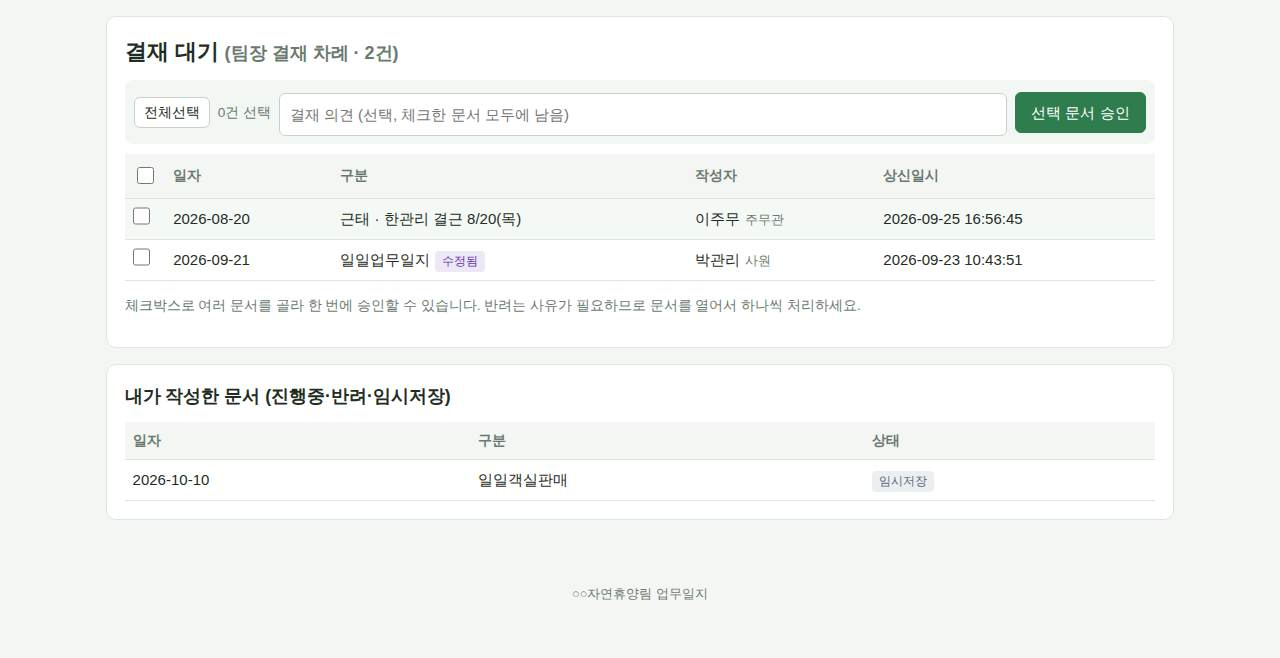
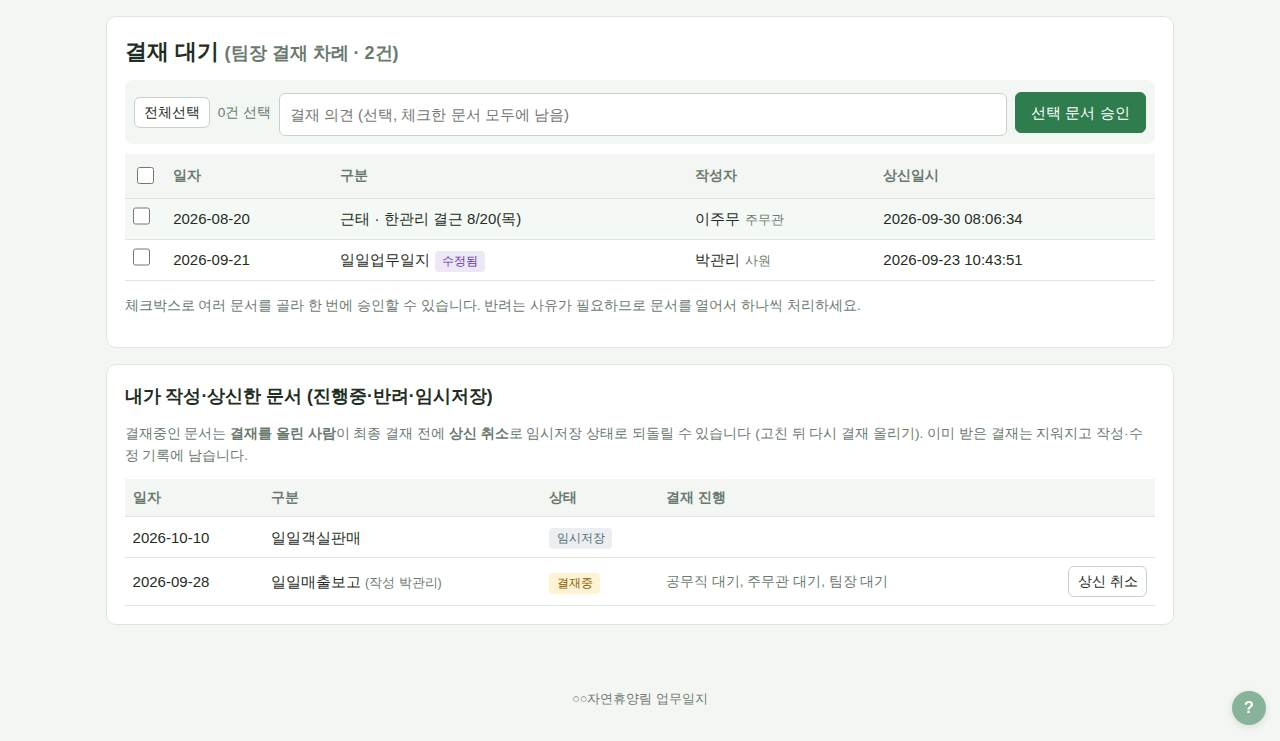
결재 상신 취소: 올린 사람이 결재중 문서를 임시저장으로 (DB v51)
- journals.submitted_by 기록, can_recall()/journal_recall()
- 결재함 '내가 작성·상신한 문서'에 상신 취소 버튼·결재 진행, 문서 보기에도 버튼
- 도움말·README·업데이트 내역

Claude-Session: https://claude.ai/code/session_01Lr6yxKyasrSL9QLfMX5TX8

diff --git a/approvals.php b/approvals.php
@@ -8,6 +8,17 @@ $user = require_login();
 if (is_post()) {
     csrf_verify();
     $action = post('action');
+    // 결재 상신 취소: 내가 올린 결재중 문서를 임시저장으로
+    if ($action === 'recall') {
+        $j = journal_find((int) post('id'));
+        if (!$j || !can_recall($j, $user)) {
+            flash('상신 취소할 수 없는 문서입니다 (결재를 올린 사람만, 결재가 끝나기 전에만 취소할 수 있습니다).', 'error');
+        } else {
+            journal_recall($j, $user);
+            flash(journal_type_label($j) . ' ' . $j['work_date'] . ' 결재 상신을 취소했습니다. 임시저장 상태로 돌아갔습니다.', 'success');
+        }
+        redirect(post('back') === 'view' && $j ? 'view.php?id=' . (int) $j['id'] : 'approvals.php');
+    }
     $ids = array_unique(array_map('intval', (array) ($_POST['ids'] ?? [])));
     if (!in_array($action, ['approve', 'delegate'], true) || !$ids) {
         flash('결재할 문서를 체크하세요.', 'error');
@@ -42,12 +53,14 @@ foreach ($waiting as $j) {
     if (can_delegate($user, approvable_step($j, $user))) $delegatable[(int) $j['id']] = true;
 }
 
+// 내가 작성했거나 내가 결재를 올린 문서 (진행중·반려·임시저장)
 $st = db()->prepare(
-    "SELECT j.* FROM journals j
-      WHERE j.author_id = ? AND j.status IN ('draft', 'pending', 'rejected')
+    "SELECT j.*, u.name AS author_name FROM journals j JOIN users u ON u.id = j.author_id
+      WHERE (j.author_id = ? AND j.status IN ('draft', 'pending', 'rejected'))
+         OR (j.status = 'pending' AND COALESCE(j.submitted_by, j.author_id) = ?)
       ORDER BY j.work_date DESC, j.id DESC LIMIT 50"
 );
-$st->execute([$user['id']]);
+$st->execute([$user['id'], $user['id']]);
 $mine = $st->fetchAll();
 
 layout_header('결재함', 'approval');
@@ -114,18 +127,28 @@ layout_header('결재함', 'approval');
 </script>
 
 <section class="card">
-  <h2>내가 작성한 문서 (진행중·반려·임시저장)</h2>
+  <h2>내가 작성·상신한 문서 (진행중·반려·임시저장)</h2>
+  <p class="muted small no-print">결재중인 문서는 <b>결재를 올린 사람</b>이 최종 결재 전에 <b>상신 취소</b>로 임시저장 상태로 되돌릴 수 있습니다 (고친 뒤 다시 결재 올리기). 이미 받은 결재는 지워지고 작성·수정 기록에 남습니다.</p>
   <table class="table">
-    <thead><tr><th>일자</th><th>구분</th><th>상태</th></tr></thead>
+    <thead><tr><th>일자</th><th>구분</th><th>상태</th><th>결재 진행</th><th class="no-print"></th></tr></thead>
     <tbody>
     <?php foreach ($mine as $j): ?>
       <tr class="clickable" onclick="location.href='<?= e(url('view.php?id=' . $j['id'])) ?>'">
         <td><?= e($j['work_date']) ?></td>
-        <td><?= e(journal_type_label($j)) ?></td>
+        <td><?= e(journal_type_label($j)) ?><?= (int) $j['author_id'] !== (int) $user['id'] ? ' <small class="muted">(작성 ' . e($j['author_name']) . ')</small>' : '' ?></td>
         <td><?= journal_badges($j) ?></td>
+        <td class="small muted"><?= $j['status'] === 'pending' ? e(preg_replace('/^[^·]*·\s*/', '', approval_summary($j))) : '' ?></td>
+        <td class="right no-print" onclick="event.stopPropagation()">
+          <?php if (can_recall($j, $user)): ?>
+          <form method="post" onsubmit="return confirm('이 문서의 결재 상신을 취소하고 임시저장 상태로 되돌릴까요?\n이미 받은 결재는 지워집니다.')">
+            <?= csrf_field() ?><input type="hidden" name="id" value="<?= (int) $j['id'] ?>">
+            <button class="btn small" name="action" value="recall">상신 취소</button>
+          </form>
+          <?php endif ?>
+        </td>
       </tr>
     <?php endforeach ?>
-    <?php if (!$mine): ?><tr><td colspan="3" class="center muted">없음</td></tr><?php endif ?>
+    <?php if (!$mine): ?><tr><td colspan="5" class="center muted">없음</td></tr><?php endif ?>
     </tbody>
   </table>
 </section>

diff --git a/app/approval.php b/app/approval.php
@@ -50,26 +50,60 @@ function journal_submit(array $journal, ?int $rank = null): void
 {
     $pdo = db();
     $line = approval_line_for($rank ?? (int) $journal['author_rank'], (string) ($journal['type'] ?? ''));
+    $by = current_user()['id'] ?? null; // 결재를 올린 사람 (상신 취소는 이 사람이)
 
     $pdo->beginTransaction();
     try {
         $pdo->prepare('DELETE FROM approvals WHERE journal_id = ?')->execute([$journal['id']]);
         if ($line === []) {
-            $pdo->prepare("UPDATE journals SET status = 'approved', submitted_at = NOW(), completed_at = NOW() WHERE id = ?")
-                ->execute([$journal['id']]);
+            $pdo->prepare("UPDATE journals SET status = 'approved', submitted_at = NOW(), submitted_by = ?, completed_at = NOW() WHERE id = ?")
+                ->execute([$by, $journal['id']]);
         } else {
             $ins = $pdo->prepare('INSERT INTO approvals (journal_id, step_order, required_rank) VALUES (?, ?, ?)');
             foreach ($line as $i => $rank) {
                 $ins->execute([$journal['id'], $i + 1, $rank]);
             }
-            $pdo->prepare("UPDATE journals SET status = 'pending', submitted_at = NOW(), completed_at = NULL WHERE id = ?")
-                ->execute([$journal['id']]);
+            $pdo->prepare("UPDATE journals SET status = 'pending', submitted_at = NOW(), submitted_by = ?, completed_at = NULL WHERE id = ?")
+                ->execute([$by, $journal['id']]);
         }
         $pdo->commit();
     } catch (Throwable $e) {
         $pdo->rollBack();
         throw $e;
     }
+}
+
+/** 결재를 올린 사람 id (예전 문서는 작성자) */
+function journal_submitter(array $journal): int
+{
+    return (int) ($journal['submitted_by'] ?? 0) ?: (int) $journal['author_id'];
+}
+
+/**
+ * 결재 상신 취소(회수) 가능: 결재중(최종 결재 전)인 문서를 올린 사람 본인.
+ * 근태는 '근태 취소'로 처리하므로 제외.
+ */
+function can_recall(array $journal, array $user): bool
+{
+    return $journal['status'] === 'pending' && $journal['type'] !== 'attendance' && journal_submitter($journal) === (int) $user['id'];
+}
+
+/** 결재 상신 취소: 결재선을 지우고 임시저장으로 되돌린다 (작성·수정 기록에 남김) */
+function journal_recall(array $journal, array $user): void
+{
+    $summary = approval_summary($journal);
+    $pdo = db();
+    $pdo->beginTransaction();
+    try {
+        $pdo->prepare('DELETE FROM approvals WHERE journal_id = ?')->execute([$journal['id']]);
+        $pdo->prepare("UPDATE journals SET status = 'draft', submitted_at = NULL, submitted_by = NULL, completed_at = NULL WHERE id = ? AND status = 'pending'")
+            ->execute([$journal['id']]);
+        $pdo->commit();
+    } catch (Throwable $e) {
+        $pdo->rollBack();
+        throw $e;
+    }
+    journal_log((int) $journal['id'], $user, '결재 상신 취소', '취소 전: ' . $summary);
 }
 
 /** 지금 결재 차례인 단계 (없으면 null) */

diff --git a/app/changelog.php b/app/changelog.php
@@ -7,6 +7,10 @@ defined('APP_ROOT') || exit;
  *   ['date' => 'YYYY-MM-DD', 'title' => '한 줄 요약', 'items' => ['자세한 내용', ...], 'menu' => '관련 메뉴(선택)']
  */
 const CHANGELOG = [
+    ['date' => '2026-10-07', 'title' => '결재 상신 취소', 'menu' => '개인업무', 'items' => [
+        "결재함의 '내가 작성·상신한 문서'(또는 문서 보기 화면)에서 결재중인 문서를 '상신 취소'하면 임시저장 상태로 돌아갑니다. 고친 뒤 다시 결재 올리기 하면 됩니다.",
+        '결재를 올린 사람만, 최종 결재가 끝나기 전에만 취소할 수 있습니다. 이미 받은 결재는 지워지고 작성·수정 기록에 남습니다. 근태는 지금처럼 근태 취소로 처리합니다.',
+    ]],
     ['date' => '2026-10-05', 'title' => '물품구매: 이전달·다음달 버튼 고침', 'menu' => '시설관리', 'items' => [
         "물품구매 목록의 '이전달'·'다음달' 버튼과 결재중·지출대기 등 거르기 탭이 지금 보고 있는 달·거르기에서 바뀌지 않던 오류를 고쳤습니다.",
         '이전달·다음달은 구매 내역이 없는 달을 건너뛰고 내역이 있는 가까운 달로 갑니다 (예: 10월에서 이전달 → 9월이 비어 있으면 8월). 버튼에 갈 달이 표시됩니다.',

diff --git a/app/help.php b/app/help.php
@@ -122,6 +122,8 @@ HTML],
   <li>내 결재 차례인 문서와 내가 올린 문서의 진행 상황을 봅니다. 결재 대기 건수는 상단 <b>개인업무</b> 옆에 빨간 숫자로 나옵니다.</li>
   <li><b>일괄 결재</b>: 체크박스로 여러 문서(또는 전체선택)를 골라 '선택 문서 승인'. 전결권한이 있는 주무관은 '선택 문서 전결'.</li>
   <li>반려는 사유가 필요하므로 문서를 열어 하나씩 합니다. ⚠ 상품권 대조 표시가 있는 문서는 차이를 확인하세요.</li>
+  <li><b>결재 상신 취소</b>: '내가 작성·상신한 문서'에서 결재중인 문서의 <b>상신 취소</b>(또는 문서 보기 화면의 '결재 상신 취소')를 누르면 결재가 취소되고 <b>임시저장</b> 상태로 돌아갑니다.
+    <b>결재를 올린 사람</b>만, <b>최종 결재 전</b>에만 할 수 있습니다. 이미 받은 결재는 지워지고 작성·수정 기록에 '결재 상신 취소'로 남습니다. 고친 뒤 다시 결재 올리기 하세요. (근태는 '근태 취소'로 처리)</li>
 </ul>
 HTML],
             ['id' => 'docs', 'title' => '문서관리 (공무직 이상)', 'keys' => ['docs'], 'img' => ['docs.jpg' => '문서관리'], 'body' => <<<'HTML'

diff --git a/app/migrate.php b/app/migrate.php
@@ -6,7 +6,7 @@ defined('APP_ROOT') || exit;
  * 새 버전 파일을 FTP로 덮어쓰기만 하면, 첫 접속 때 부족한 테이블/컬럼을 만든다.
  * (기존 자료는 그대로 유지)
  */
-const DB_VERSION = 50;
+const DB_VERSION = 51;
 
 function db_version(): int
 {
@@ -422,6 +422,11 @@ function db_migrate(): void
     // 50) v49 → v50: 메뉴 권한에 '시설관리'(fac) 추가 — 이미 메뉴 권한을 고른 회원은 지금처럼 시설관리를 계속 보이게 fac 를 붙인다
     if (db_version() < 50) {
         $pdo->exec("UPDATE users SET menu_access = IF(menu_access = '', 'fac', CONCAT(menu_access, ',fac')) WHERE menu_access IS NOT NULL AND FIND_IN_SET('fac', menu_access) = 0");
+    }
+
+    // 51) v50 → v51: 결재를 올린 사람 journals.submitted_by — 올린 사람이 '결재 상신 취소'로 임시저장으로 되돌림 (예전 문서는 작성자로 봄)
+    if (!column_exists('journals', 'submitted_by')) {
+        $pdo->exec("ALTER TABLE journals ADD submitted_by INT UNSIGNED NULL COMMENT '결재를 올린 사람 (상신 취소 권한)' AFTER submitted_at");
     }
 
     $pdo->prepare("INSERT INTO settings (name, value) VALUES ('db_version', ?) ON DUPLICATE KEY UPDATE value = VALUES(value)")

diff --git a/view.php b/view.php
@@ -176,6 +176,12 @@ $docTitle = $att ? '근태 신청 · ' . $att['user_name'] . ' ' . att_kind_name
       <?= csrf_field() ?><button class="btn danger" name="action" value="delete"><?= $att ? '근태 취소' : '삭제' ?></button>
     </form>
   <?php endif ?>
+  <?php if (can_recall($journal, $user)): ?>
+    <form method="post" action="<?= e(url('approvals.php')) ?>" onsubmit="return confirm('결재 상신을 취소하고 임시저장 상태로 되돌릴까요?\n이미 받은 결재는 지워집니다.')">
+      <?= csrf_field() ?><input type="hidden" name="id" value="<?= (int) $journal['id'] ?>"><input type="hidden" name="back" value="view">
+      <button class="btn" name="action" value="recall">결재 상신 취소</button>
+    </form>
+  <?php endif ?>
   <?php if ($editable): ?>
     <form method="post">
       <?= csrf_field() ?><button class="btn primary" name="action" value="submit"><?= $journal['status'] === 'rejected' ? '재상신' : '결재 올리기' ?></button>
